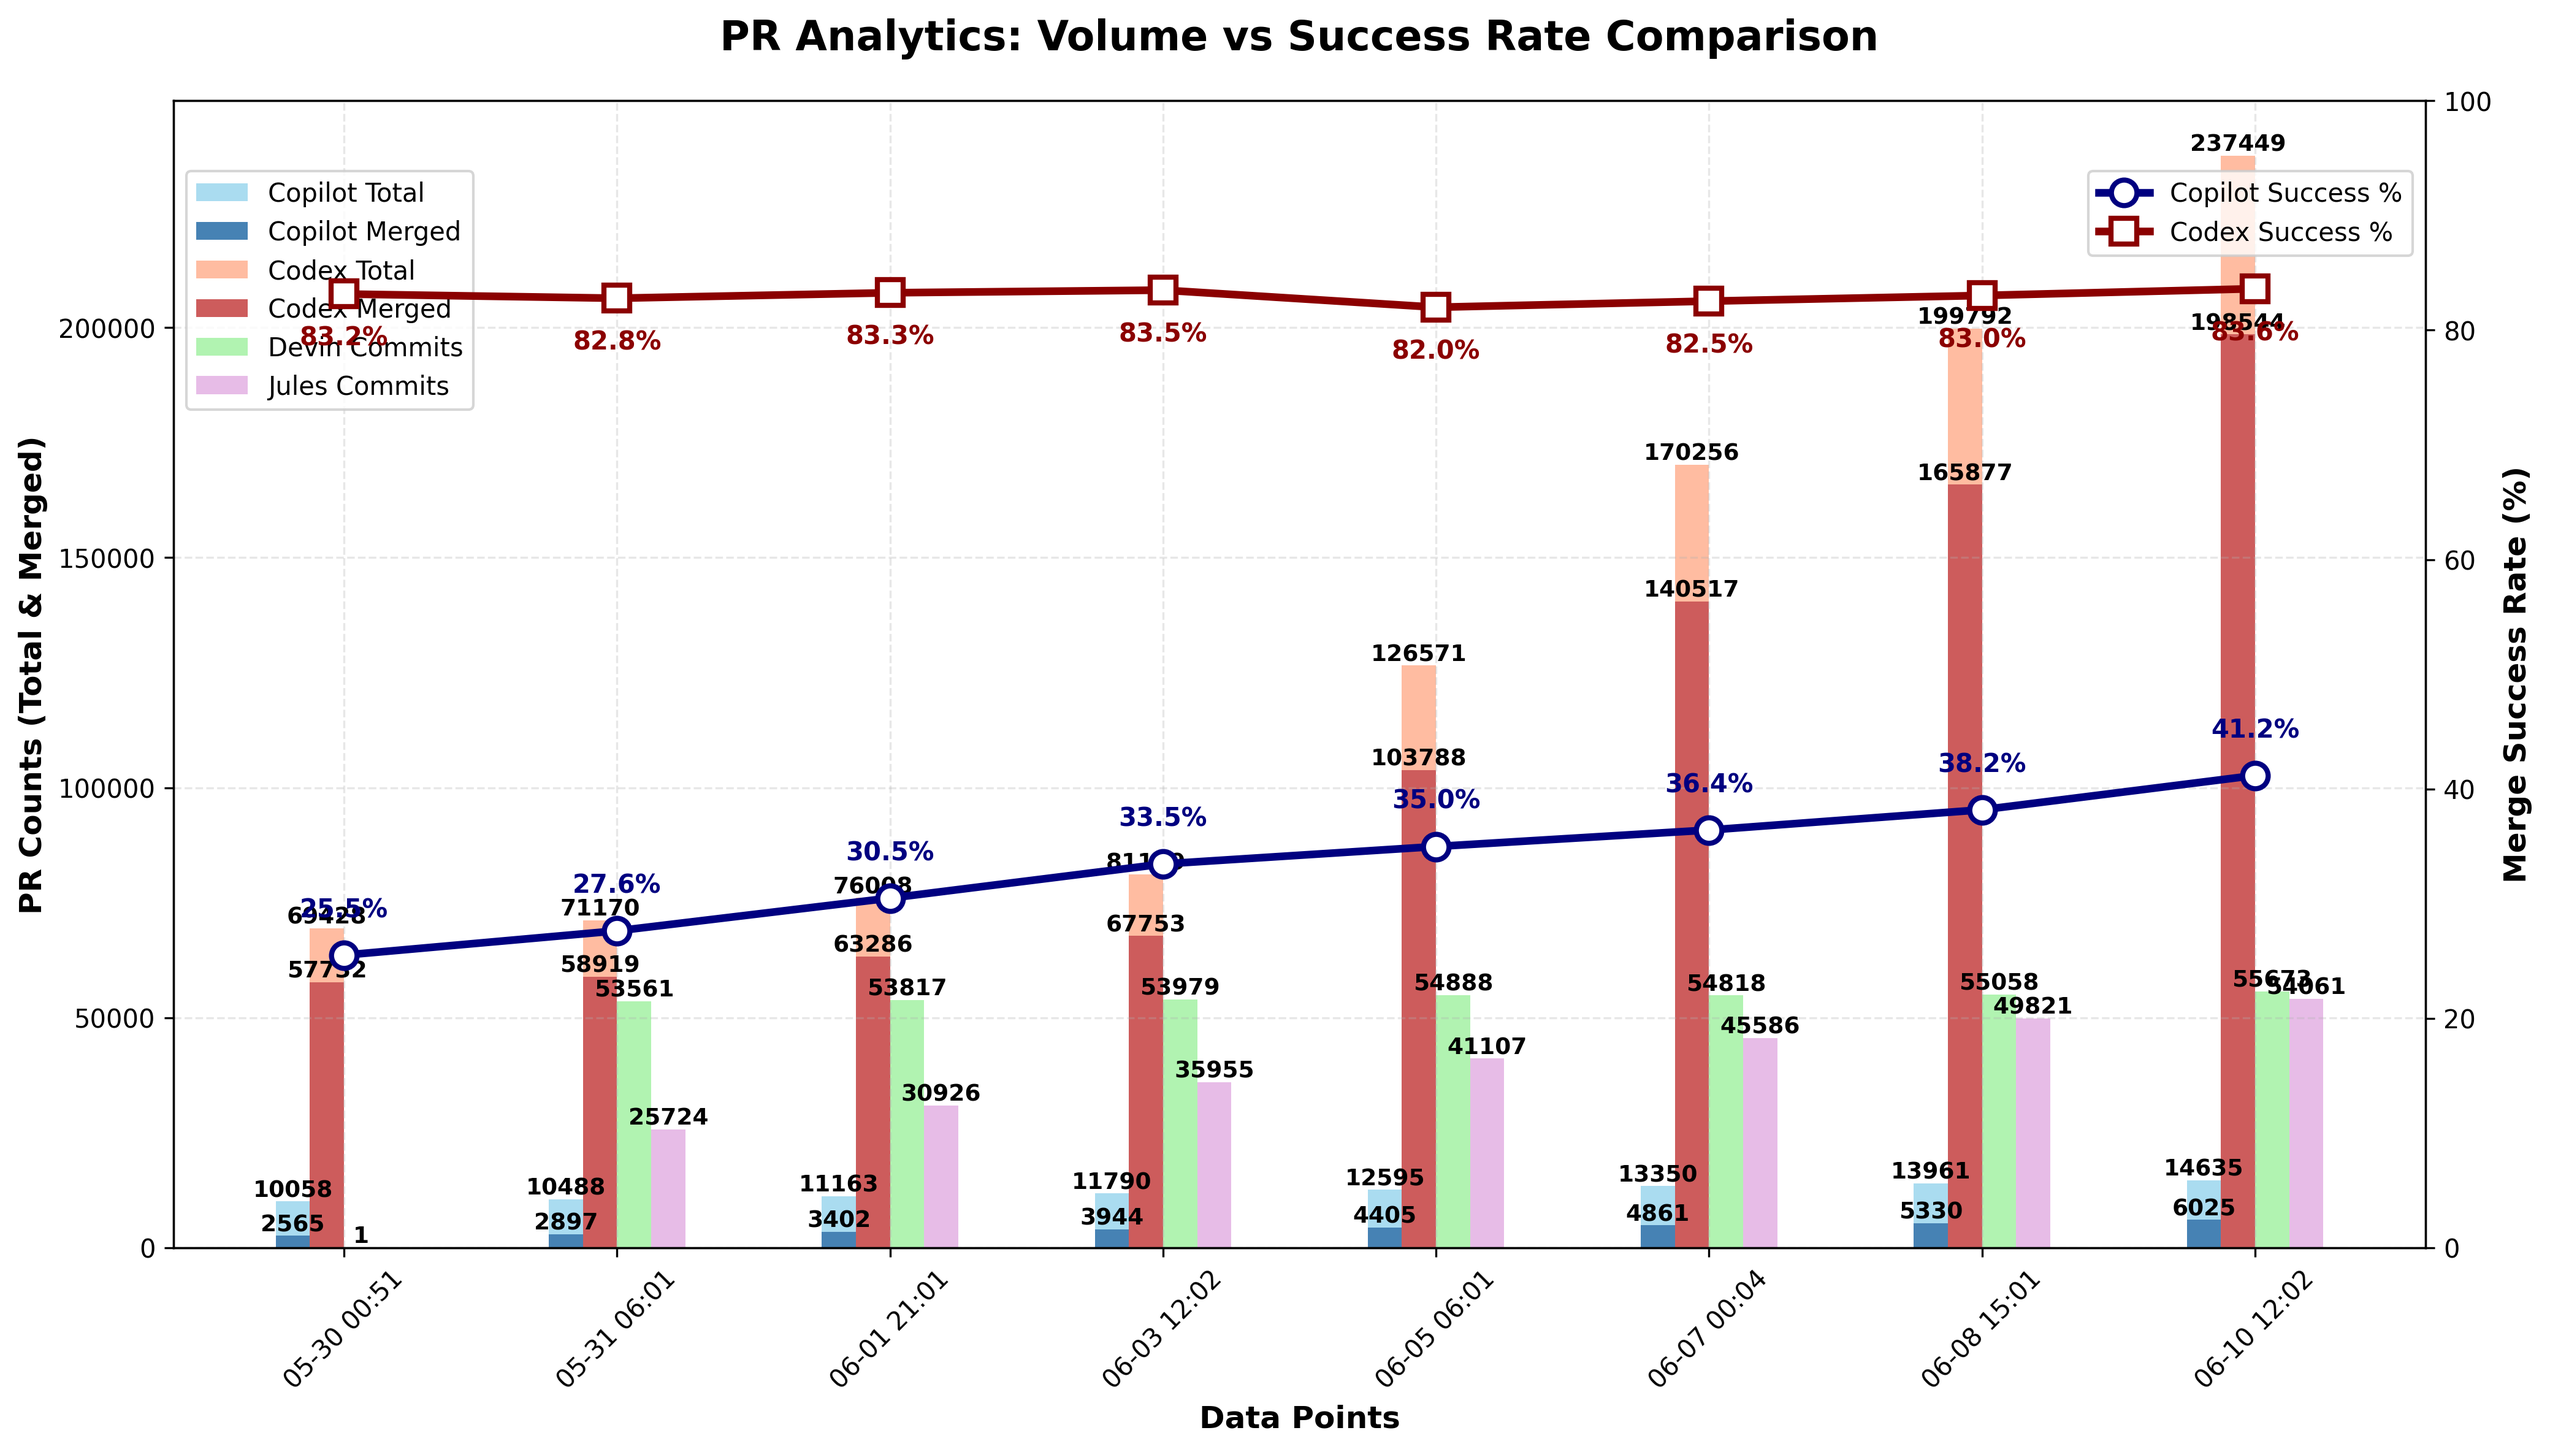
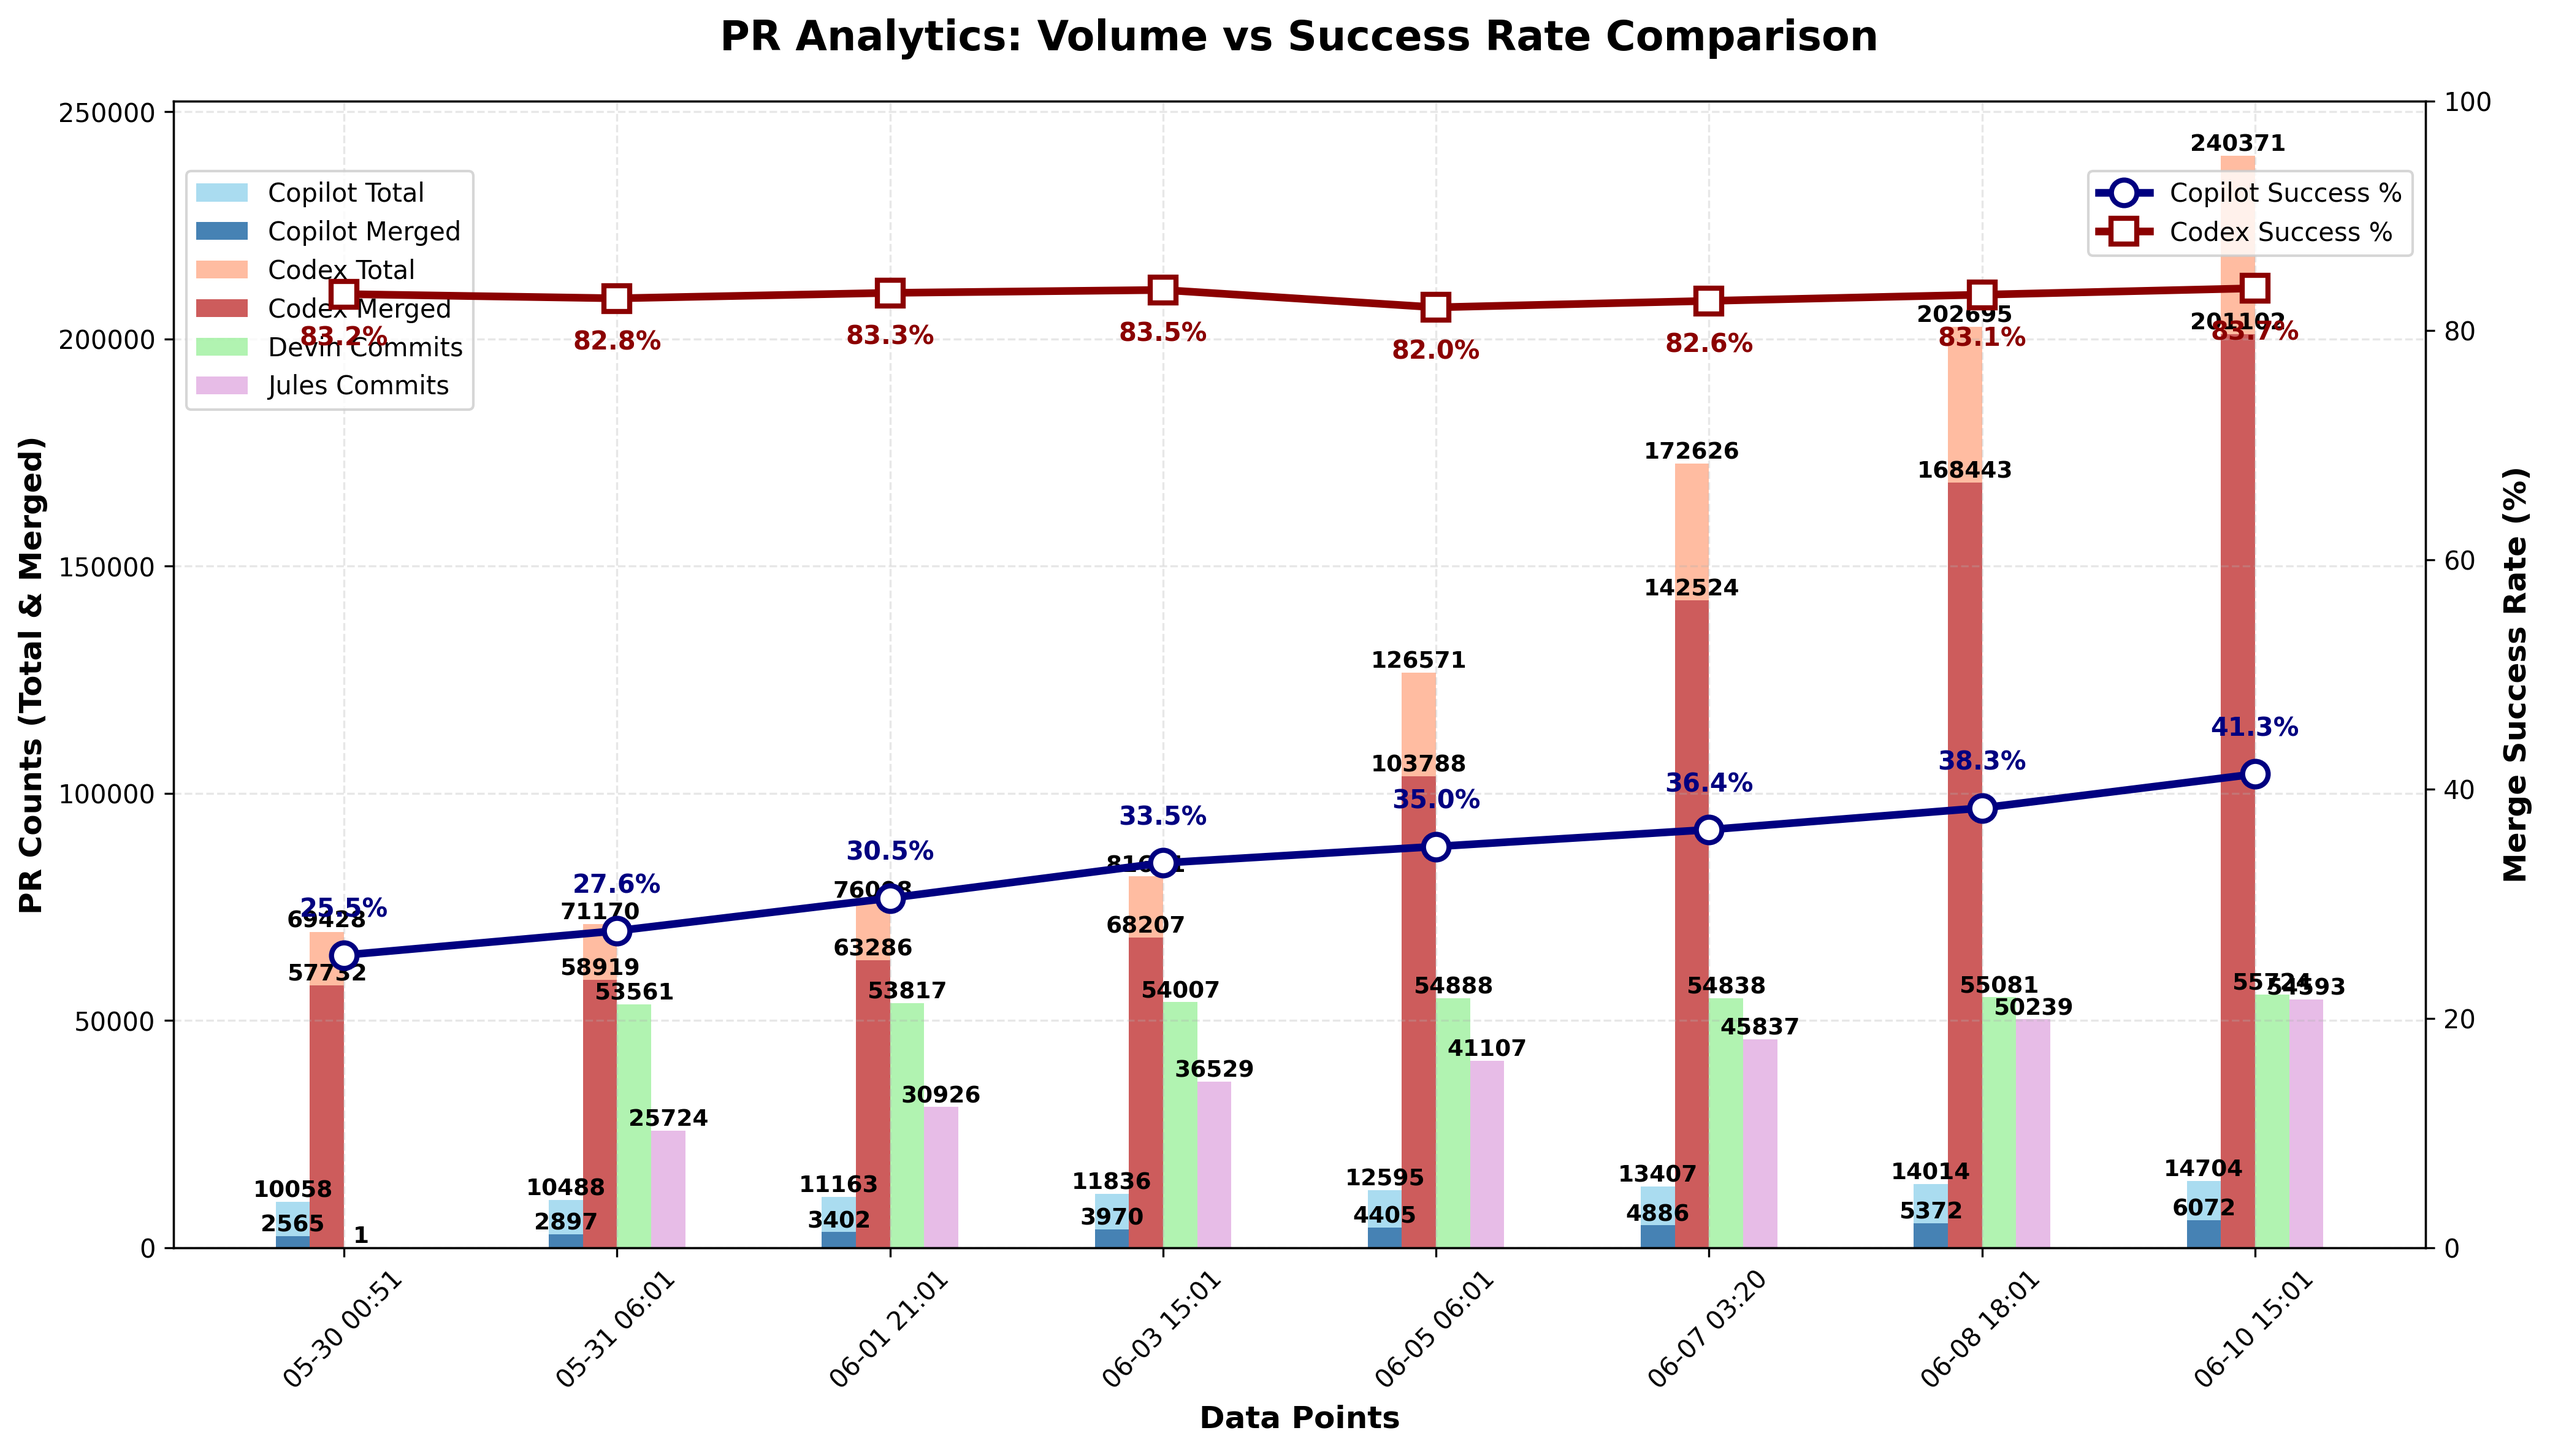
chore: update PR‑approval chart

diff --git a/docs/index.html b/docs/index.html
@@ -141,6 +141,7 @@
                         <td>N/A</td>
                         <td>N/A</td>
                         <td>N/A</td>
+                        <td>N/A</td>
                     </tr>
                     <tr>
                         <td>Codex</td>
@@ -240,27 +241,28 @@
                         <td>N/A</td>
                         <td>N/A</td>
                         <td>N/A</td>
+                        <td>N/A</td>
                     </tr>
                 <tr>
                         <td>Devin</td>
                         <td>N/A</td>
                         <td>N/A</td>
                         <td>N/A</td>
-                        <td>55,673</td>
+                        <td>55,724</td>
                     </tr>
                     <tr>
                         <td>Jules</td>
                         <td>N/A</td>
                         <td>N/A</td>
                         <td>N/A</td>
-                        <td>54,061</td>
+                        <td>54,593</td>
                     </tr>
                     </tbody>
             </table>
         </section>
 
         <footer>
-            <p>Last updated: <span id="last-updated">June 10, 2025 12:02 UTC</span></p>
+            <p>Last updated: <span id="last-updated">June 10, 2025 15:01 UTC</span></p>
             <p><a href="https://github.com/aavetis/ai-pr-watcher">View on GitHub</a></p>
         </footer>
     </div>

diff --git a/README.md b/README.md
@@ -19,7 +19,7 @@ Explore the GitHub search queries used:
 
 | Service | Total PRs | Merged PRs | Merge Rate | Total Commits |
 | ------- | --------- | ---------- | ---------- | ------------- |
-| Copilot | 14,635 | 6,025 | 41.17% | N/A           |
-| Codex   | 237,449 | 198,544 | 83.62% | N/A           |
-| Devin   | N/A       | N/A        | N/A        | 55,673 |
-| Jules   | N/A       | N/A        | N/A        | 54,061 |
+| Copilot | 14,704 | 6,072 | 41.29% | N/A           |
+| Codex   | 240,371 | 201,102 | 83.66% | N/A           |
+| Devin   | N/A       | N/A        | N/A        | 55,724 |
+| Jules   | N/A       | N/A        | N/A        | 54,593 |
